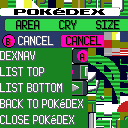
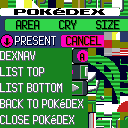
Allow restricting dex to current time

Changed region(s): [[0.0, 0.25, 0.4375, 0.375]]

diff --git a/src/pokedex_area_screen.c b/src/pokedex_area_screen.c
@@ -64,12 +64,32 @@ struct OverworldArea
     u16 regionMapSectionId;
 };
 
+enum 
+{
+    TIME_ALL,
+    TIME_DAWN,
+    TIME_DAY,
+    TIME_DUSK,
+    TIME_NIGHT
+};
+
+enum 
+{
+    ENCOUNTER_ALL,
+    ENCOUNTER_LAND,
+    ENCOUNTER_WATER,
+    ENCOUNTER_FISH,
+    ENCOUNTER_ROCK,
+    ENCOUNTER_TREE
+};
+
 struct
 {
     /*0x000*/ void (*callback)(void); // unused
     /*0x004*/ MainCallback prev; // unused
     /*0x008*/ MainCallback next; // unused
-    /*0x00C*/ u16 state; // unused
+    /*0x00C*/ u8 timeOfDay;
+              u8 encounterTerrain; // unused
     /*0x00E*/ u16 species;
     /*0x010*/ struct OverworldArea overworldAreasWithMons[MAX_AREA_HIGHLIGHTS];
     /*0x110*/ u16 numOverworldAreas;
@@ -389,17 +409,11 @@ static bool8 MapHasSpecies(const struct WildPokemonHeader *info, u16 species)
         return TRUE;
     if (MonListHasSpecies(info->waterMonsInfo, species, WATER_WILD_COUNT))
         return TRUE;
-// When searching the fishing encounters, this incorrectly uses the size of the land encounters.
-// As a result it's reading out of bounds of the fishing encounters tables.
-#ifdef BUGFIX
     if (MonListHasSpecies(info->fishingMonsInfo, species, FISH_WILD_COUNT))
-#else
-    if (MonListHasSpecies(info->fishingMonsInfo, species, LAND_WILD_COUNT))
-#endif
         return TRUE;
     if (MonListHasSpecies(info->rockSmashMonsInfo, species, ROCK_WILD_COUNT))
         return TRUE;
-    if (MonListHasSpecies(info->rockSmashMonsInfo, species, TREE_WILD_COUNT))
+    if (MonListHasSpecies(info->headbuttMonsInfo, species, TREE_WILD_COUNT))
         return TRUE;
     return FALSE;
 }
@@ -411,14 +425,26 @@ static bool8 MonListHasSpecies(const struct WildPokemonInfo *info, u16 species, 
 
     if (info != NULL)
     {
-        for (timeOfDay = 0; timeOfDay < TIMES_OF_DAY_COUNT; timeOfDay++)
+        if (sPokedexAreaScreen->timeOfDay == TIME_ALL)
+        {
+            for (timeOfDay = 0; timeOfDay < TIMES_OF_DAY_COUNT; timeOfDay++)
+            {
+                for (i = 0; i < size; i++)
+                {
+                    if (info->wildPokemon[timeOfDay][i].species == species)
+                        return TRUE;
+                }
+            }
+        }
+        else 
         {
             for (i = 0; i < size; i++)
             {
-                if (info->wildPokemon[timeOfDay][i].species == species)
+                if (info->wildPokemon[sPokedexAreaScreen->timeOfDay - 1][i].species == species)
                     return TRUE;
             }
         }
+
     }
     return FALSE;
 }
@@ -695,6 +721,22 @@ static void Task_HandlePokedexAreaScreenInput(u8 taskId)
             }
             gTasks[taskId].data[1] = 2;
             PlaySE(SE_DEX_PAGE);
+        }
+        else if (JOY_NEW(DPAD_DOWN))
+        {
+            if (sPokedexAreaScreen->timeOfDay == TIME_ALL)
+            {
+                 PlaySE(SE_POKENAV_ON);
+                 sPokedexAreaScreen->timeOfDay = GetCurrentTimeOfDay() + 1;
+            }
+            else 
+            {
+                 PlaySE(SE_POKENAV_OFF);
+                 sPokedexAreaScreen->timeOfDay = 0;
+            }
+            gTasks[taskId].func = Task_ShowPokedexAreaScreen;
+            gTasks[taskId].tState = 0;
+            return;
         }
         else
             return;

diff --git a/src/speedchoice.c b/src/speedchoice.c
@@ -105,7 +105,7 @@ const u8 gSystemText_TerminatorS[] = _("{COLOR RED}$");
 /* SPEEDCHOICE MENU TEXT (Header Text)             */
 /* ----------------------------------------------- */
 const u8 gSpeedchoiceTextHeader[] = _("{COLOR GREEN}{SHADOW LIGHT_GREEN}EX SPEEDCHOICE MENU");
-const u8 gSpeedchoiceCurrentVersion[] = _("{COLOR GREEN}{SHADOW LIGHT_GREEN}v0.5.1 IX");
+const u8 gSpeedchoiceCurrentVersion[] = _("{COLOR GREEN}{SHADOW LIGHT_GREEN}v0.5.2 IX");
 
 /* ----------------------------------------------- */
 /* SPEEDCHOICE MENU TEXT (Option Choices)          */
